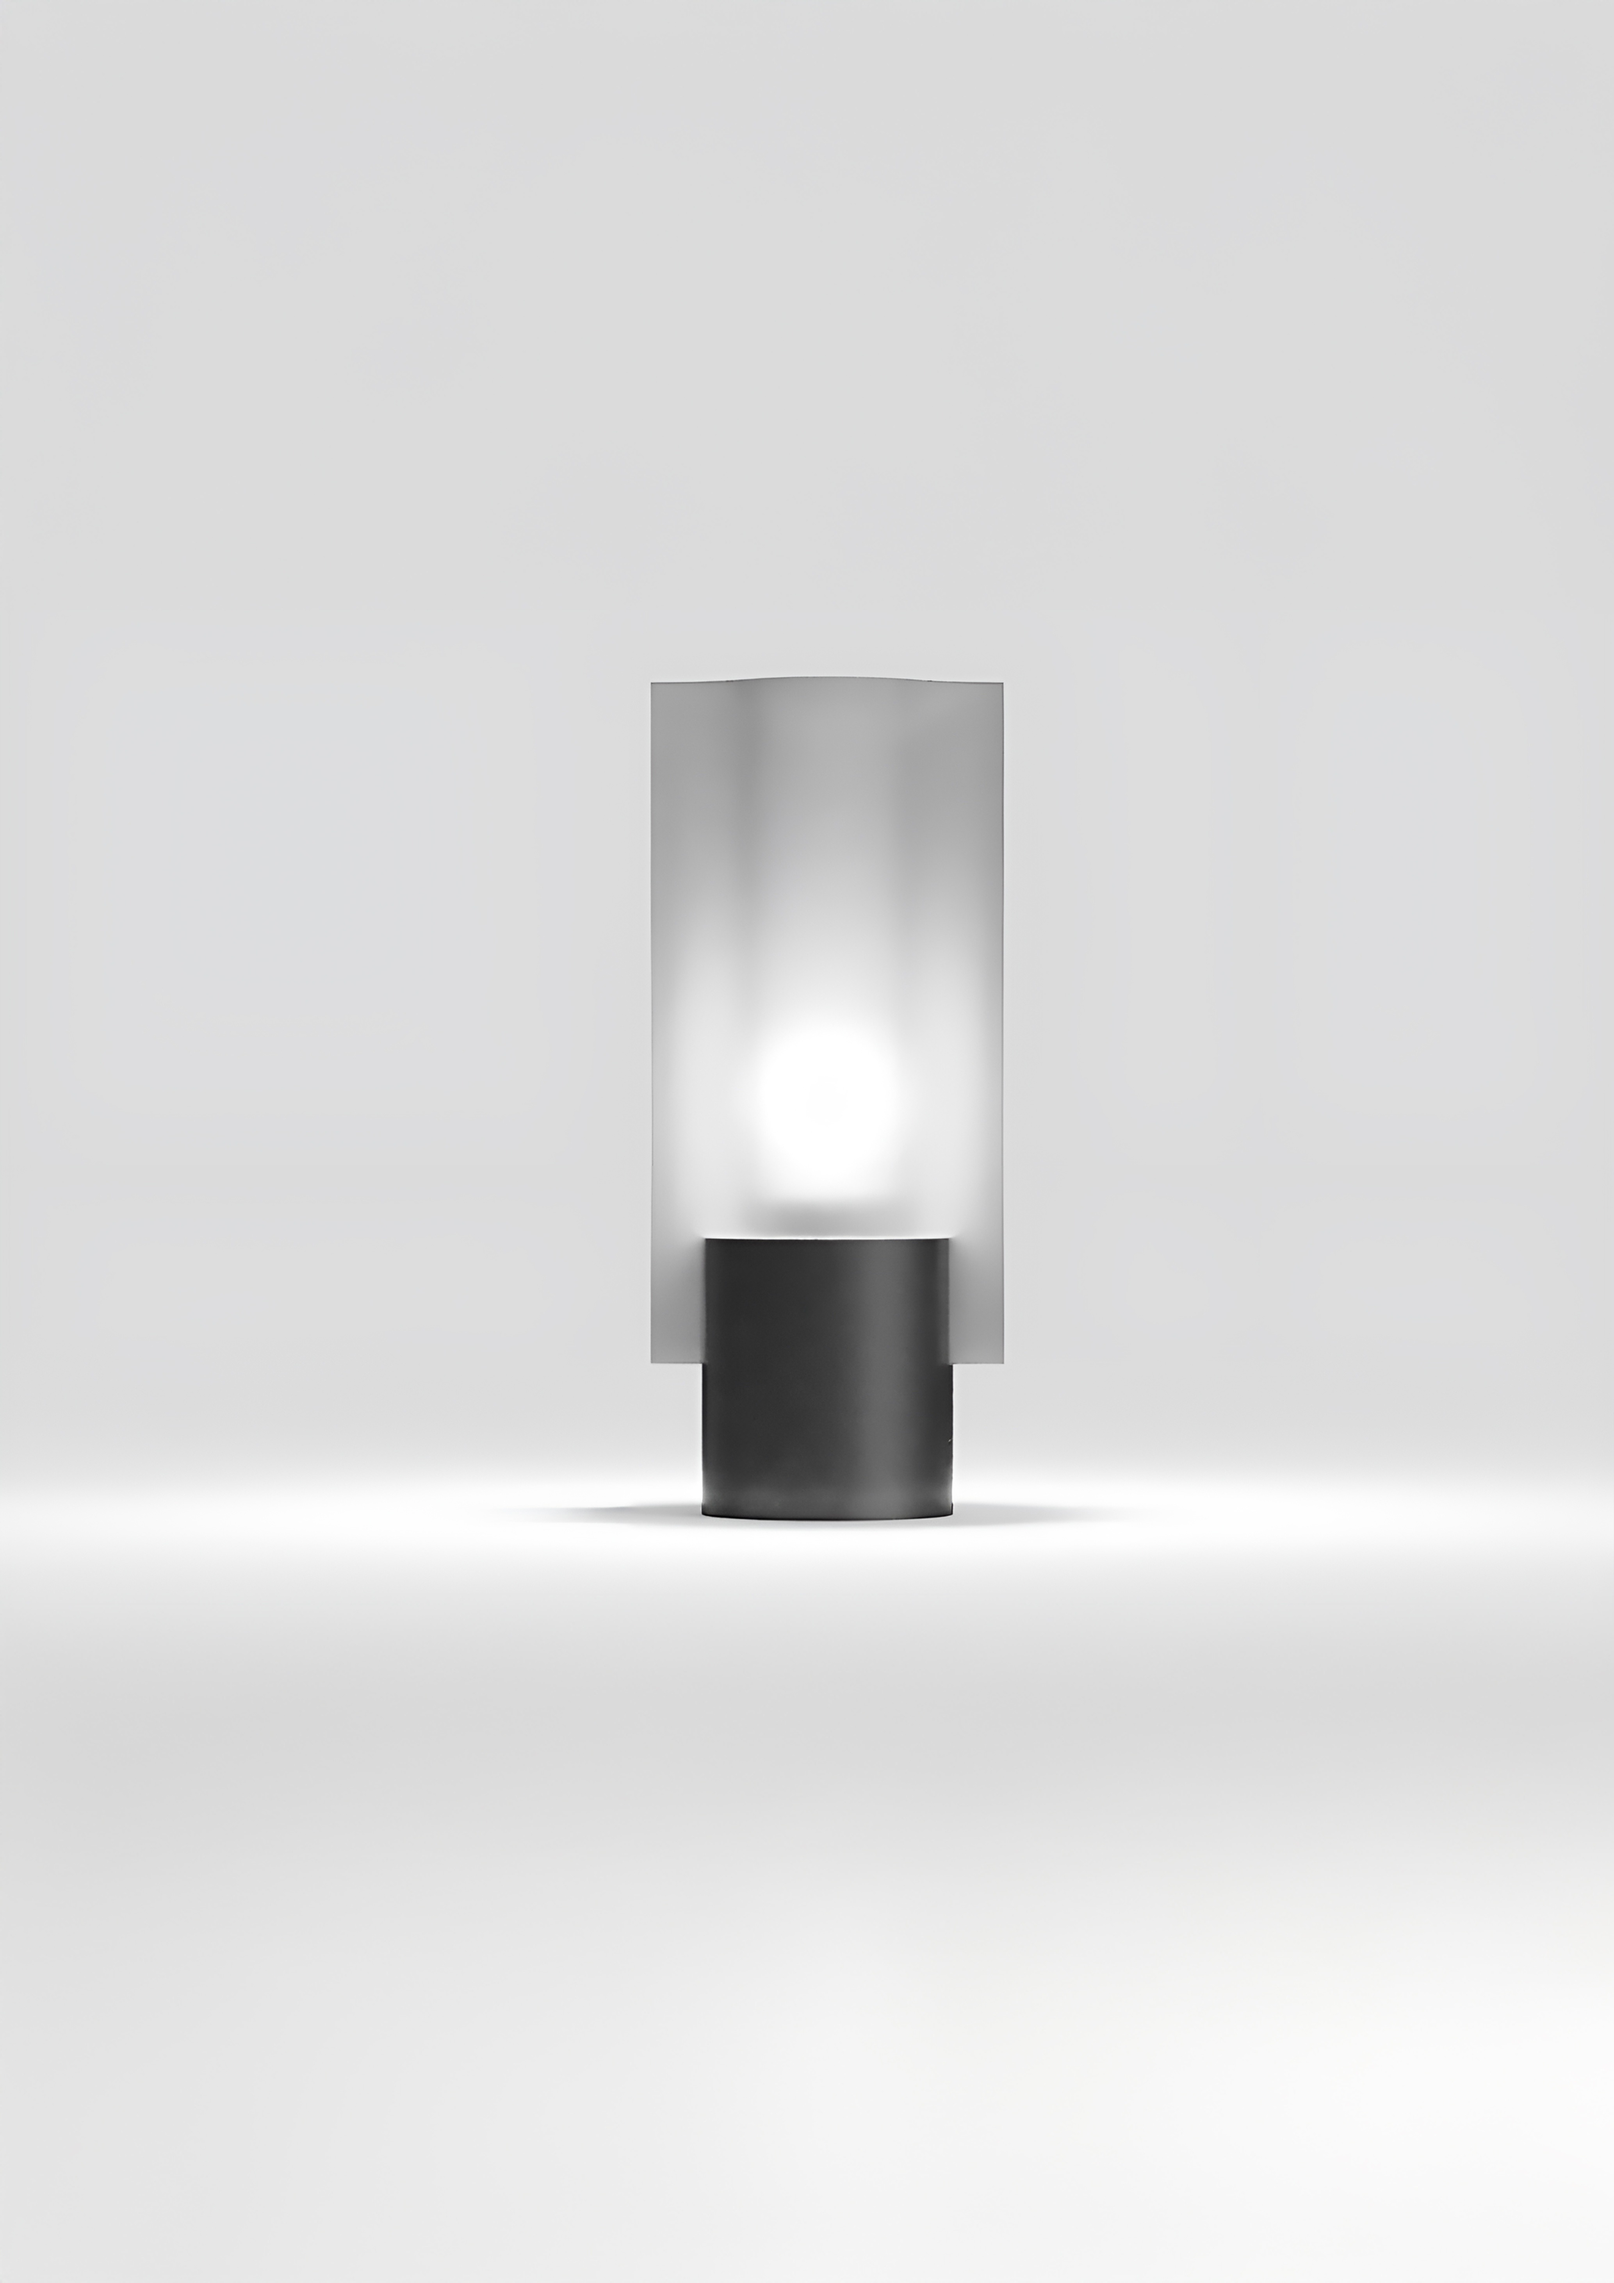
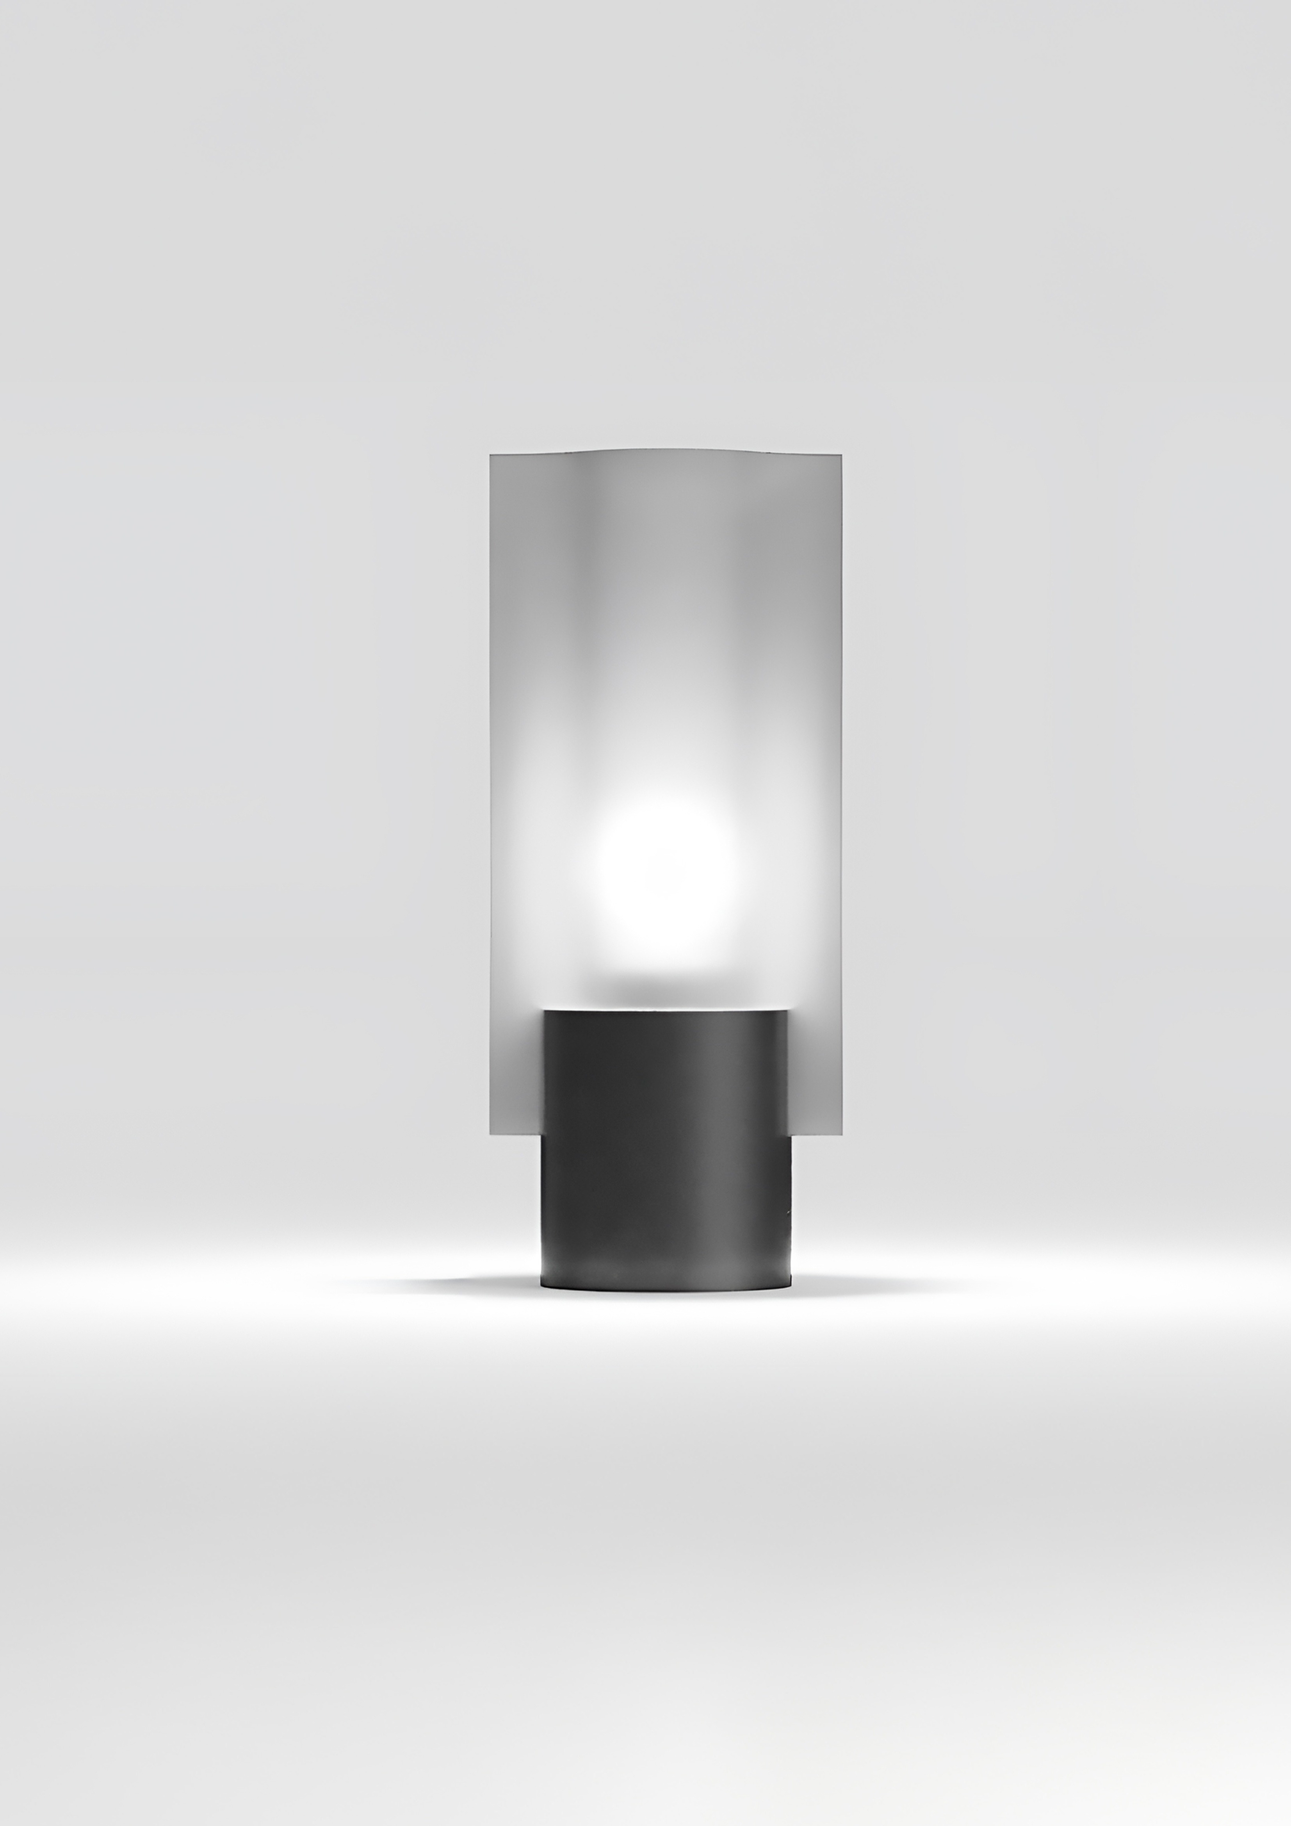
update trace table lamp images

Changed region(s): [[0.0, 0.2185, 1.0, 0.7492]]

diff --git a/src/data/projects.js b/src/data/projects.js
@@ -107,8 +107,8 @@ The design is minimal, thoughtful, and focused on the quiet beauty of materials 
   {
     id: 'trace-table-lamp',
     images: [
-      'images/trace-table-lamp/03.jpg',
       'images/trace-table-lamp/01.jpg',
+      'images/trace-table-lamp/02.jpg',
       'images/trace-table-lamp/04.jpg'
     ],
     title: 'TRACE TABLE LIGHT',
